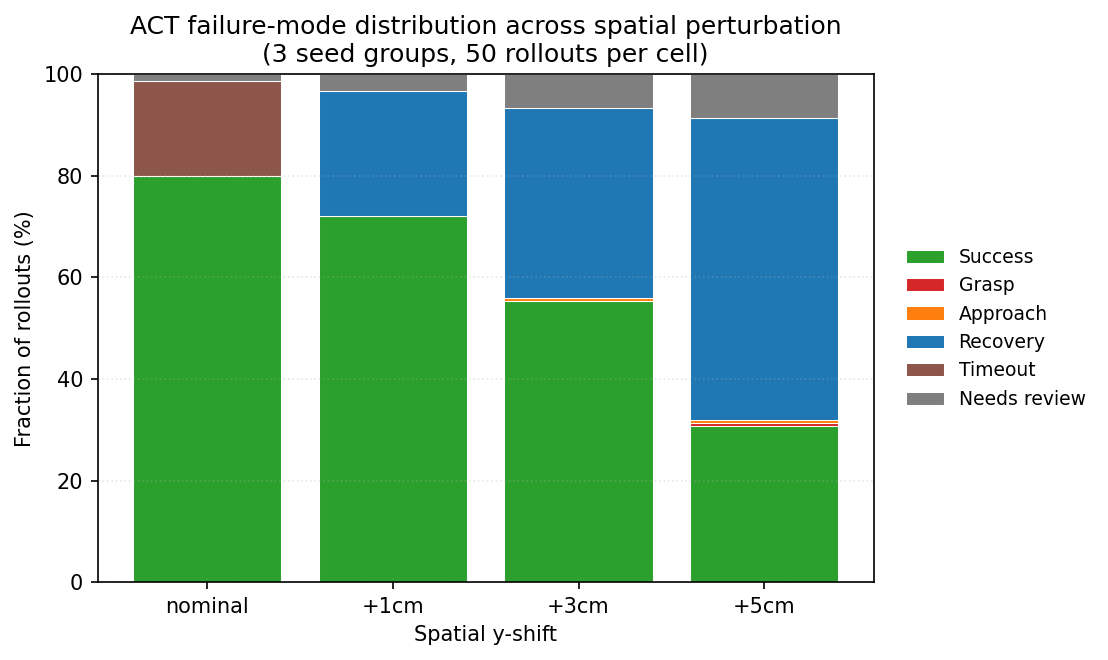
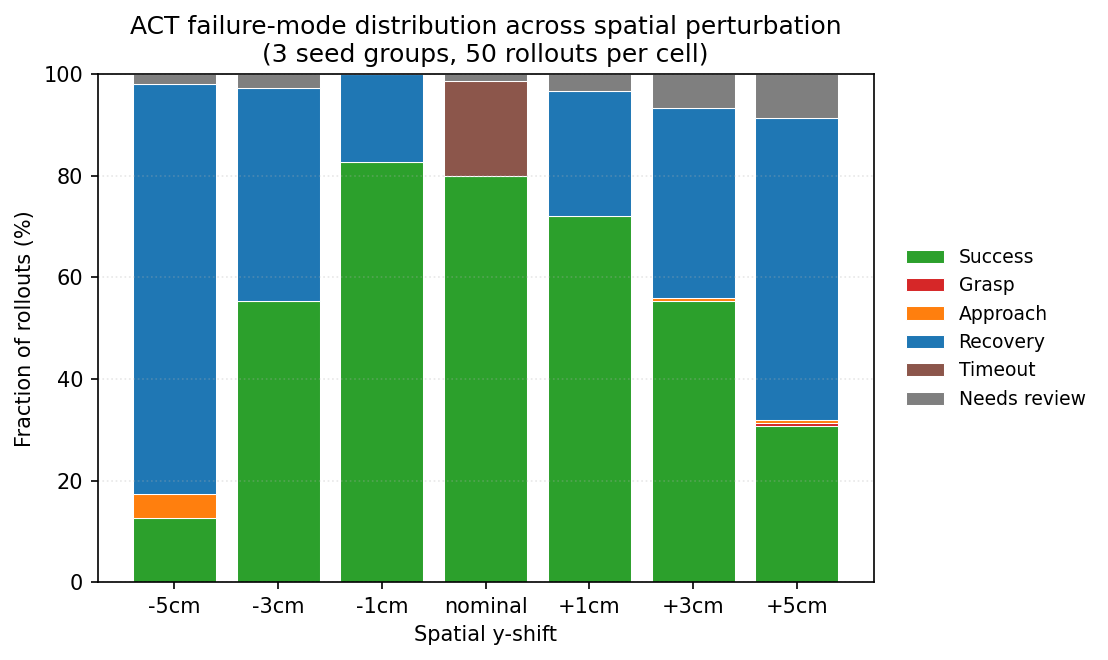
docs(log): Week 5 Day 2 negative spatial cells + axis asymmetry
Closes Week 5 Day 2 with the full 7-cell spatial axis (-5 -> +5 cm).
Figure regenerated; research-log entry adds the asymmetry findings and
re-evaluates the Phase 4 base-policy target.

Headline findings (full prose in research-log.md):

1. Asymmetric, non-monotonic curve at small magnitudes:
   - -1cm = 0.827 TSR (+2.7 pp vs nominal)
   - +1cm = 0.720 TSR (-8.0 pp vs nominal)
   At small magnitudes the policy tolerates negative shifts but not
   positive. At +-3cm both match (0.553). At +-5cm the asymmetry has
   FLIPPED: -5cm (0.127) is dramatically worse than +5cm (0.307).

2. Recovery dominates both directions; -5cm shows Approach failures
   (4.7% vs 0.7% at +5cm) -- the first per-cell QUALITATIVE shift.

3. Sigma collapse is more aggressive on the negative side. Positive
   side starts variable at +1cm (super-Bernoulli) then collapses;
   negative side is deterministic at every magnitude.

4. Phase 4 reassessment: +5cm still cleanest target (single failure
   mode, 59% Recovery). -5cm has more headroom but multi-modal failure
   (Recovery + Approach) -- harder residual-RL signal to learn.

Open question (deferred): mechanism behind the asymmetry direction-flip.
Likely about right-arm pickup competence near the (0, 0.5) nominal cube
position vs left-arm receive at the calibrated transfer-target (-0.018,
0.506) -- would need per-arm initial-state isolation to confirm.

STATE.md refreshed (Week 5 Day 2 header, 7-cell table inline,
[…]

Changed region(s): [[0.1227, 0.0909, 0.7058, 0.9394], [0.6137, 0.9091, 0.7671, 0.9394], [0.1227, 0.9091, 0.2762, 0.9394]]

diff --git a/docs/research-log.md b/docs/research-log.md
@@ -523,3 +523,110 @@ If the heatmap reader wants the "raw" Timeout count for perturbed cells, it's `R
 - **Visual / dynamic / temporal axes** — perturbation wrappers stubbed; STATE.md step 5+.
 - **Manual audit of needs_review rollouts** — ~5 from the +5 cm cell would tell us whether to tighten Recovery's sign-flip threshold (currently 0.05) or split off a new category for "motion without engagement".
 
+
+## Week 5 — 2026-05-17 (Day 2: negative spatial cells + axis asymmetry)
+
+Ran the 3 negative-y cells on M1 (-1, -3, -5 cm), regenerated the §6.4 figure spanning the full ±5 cm. Auto-classify in `_cmd_evaluate` produced `data/taxonomy/auto_labels_<run_id>.json` for each cell inline; no relabel needed.
+
+### 7-cell spatial axis
+
+| cell | n | mean_tsr | σ | Success | Recovery | Approach | Needs review |
+|---|---|---|---|---|---|---|---|
+| **−5cm** (18xb5ob0) | 150 | 0.127 | 0.009 | 19 (12.7%) | 121 (80.7%) | 7 (4.7%) | 3 (2.0%) |
+| −3cm (11ugk2a3) | 150 | 0.553 | 0.025 | 83 (55.3%) | 63 (42.0%) | 0 | 4 (2.7%) |
+| −1cm (1usoqyez) | 150 | 0.827 | 0.034 | 124 (82.7%) | 26 (17.3%) | 0 | 0 |
+| nominal (cm6uf89g) | 150 | 0.800 | 0.057 | 120 (80.0%) | 0 (28 Timeout) | 0 | 2 (1.3%) |
+| +1cm (p2pltgd8) | 150 | 0.720 | 0.102 | 108 (72.0%) | 37 (24.7%) | 0 | 5 (3.3%) |
+| +3cm (miuy4kux) | 150 | 0.553 | 0.041 | 83 (55.3%) | 56 (37.3%) | 1 (0.7%) | 10 (6.7%) |
+| **+5cm** (alr0r0p2) | 150 | 0.307 | 0.019 | 46 (30.7%) | 89 (59.3%) | 1 (0.7%) | 13 (8.7%) |
+
+Figure regenerated at `docs/figures/spatial_failure_distribution.png` (7 bars).
+
+### Asymmetric degradation, non-monotonic at small magnitudes
+
+Distance from nominal TSR:
+
+| Δy | TSR | ΔTSR vs nominal |
+|---|---|---|
+| −5 cm | 0.127 | −0.673 |
+| −3 cm | 0.553 | −0.247 |
+| −1 cm | 0.827 | **+0.027** |
+| 0     | 0.800 | 0 |
+| +1 cm | 0.720 | −0.080 |
+| +3 cm | 0.553 | −0.247 |
+| +5 cm | 0.307 | −0.493 |
+
+Three things stand out:
+
+1. **At ±1 cm the curve is asymmetric in *direction***: −1 cm is +2.7 pp better than nominal (within noise, σ ≈ 0.05), but +1 cm is −8.0 pp worse (≈ 1.4 σ — meaningful). At small magnitudes the policy tolerates negative shifts but not positive.
+2. **At ±3 cm the curve is matched** (both at 0.553, identical to two decimals). Negative direction "catches up" and they collide.
+3. **At ±5 cm the asymmetry has *reversed*** — −5 cm is now dramatically worse than +5 cm (0.127 vs 0.307, a 17.9 pp gap). The negative-direction degradation accelerates between −3 → −5 cm (drop of 0.426) far faster than positive between +3 → +5 cm (drop of 0.246).
+
+The story is the asymmetry flipping direction as magnitude grows: small +y is harder, large −y is much harder.
+
+### Mechanism hypothesis (open question)
+
+The cube starts at approximately (0, 0.5) and the calibrated transfer-target is (-0.018, 0.506) — i.e. the cube barely moves in y during a successful transfer. Demonstrations cluster narrowly around this nominal geometry. Speculative reading:
+
+- **Small +y (cube at y ≈ 0.51)** crosses into a region the right arm rarely picks up from in demos — first contact phase is the wedge that breaks.
+- **Small −y (cube at y ≈ 0.49)** stays within the right-arm's habituated reach pattern, so first-contact succeeds; the asymmetry-reversal at larger magnitude is then a second-stage failure (the *transfer* arm doesn't know how to receive at the shifted y).
+- **Large −y (cube at y ≈ 0.45)** simultaneously breaks right-arm pickup AND left-arm receive — both stages fail, hence the steeper drop.
+
+A controlled experiment to confirm would freeze the left arm at its nominal demo trajectory and only perturb right-arm initial state; or vice versa. Out of scope for Week 5 — flagged as a follow-up.
+
+### Approach-failure morphology at −5cm
+
+Of the 121 failed −5cm rollouts, 7 (4.7%) are Approach (EE > 5cm from cube terminal). At +5cm only 1 (0.7%) is Approach. This says that at large negative shifts the policy actually *reaches past* where it expects the cube to be — the gripper terminates further from the (shifted-away) cube than the 5 cm threshold. At +5cm the policy still reaches the nominal-vicinity position, which happens to be within 5 cm of the (shifted-toward-receptacle) cube.
+
+Mechanically this means residual RL on the −5cm cell would need to learn to **not over-reach**, which is a different correction signal than +5cm's "extend the reach a little further". Residual policies likely don't transfer between cells — Phase 4 may need per-cell fine-tunes, or a multi-cell joint training mix.
+
+### σ collapse is more aggressive on the negative side
+
+| Δy | σ | Bernoulli SE √(p(1−p)/N) |
+|---|---|---|
+| −5 cm | 0.009 | 0.027 (over-determined by 3×) |
+| −3 cm | 0.025 | 0.041 (sub-Bernoulli) |
+| −1 cm | 0.034 | 0.031 |
+| 0 cm  | 0.057 | 0.033 |
+| +1 cm | 0.102 | 0.037 (super-Bernoulli) |
+| +3 cm | 0.041 | 0.041 (Bernoulli) |
+| +5 cm | 0.019 | 0.038 (sub-Bernoulli) |
+
+Positive side starts variable (+1 cm σ ≈ 2.8× the Bernoulli floor — seed-to-seed *unpredictable* whether the policy adapts), collapses to deterministic by +5. Negative side is deterministic at every magnitude — same trajectory every seed. Doesn't suggest a different mechanism so much as: the +y "boundary regime" where demos and policy are stretched thin, vs the −y "out-of-distribution" regime where the policy reverts to a single canonical failure mode.
+
+### needs_review fraction
+
+| Δy | needs_review |
+|---|---|
+| −5, −3, −1 | 2.0%, 2.7%, 0% |
+| 0 | 1.3% |
+| +1, +3, +5 | 3.3%, 6.7%, 8.7% |
+
+The classifier rules fire cleanly on the negative side (lower fractions) and degrade with positive shift. Likely a manifestation of the same "+y is the unstable boundary" pattern — those rollouts have *some* motion, just not the right motion, so they fail the Recovery rule's "quiet policy" test and land in needs_review.
+
+### Phase 4 base-policy selection re-evaluated
+
+Updated takeaway from Week 5 Day 1 (when only +y cells existed): **the residual-RL target depends on which failure pattern is most tractable**, not just which cell has the largest TSR delta:
+
+- **+5cm (59% Recovery, 0% Approach)**: Stalled near target. Residual needs a small "continue forward" signal. Most tractable.
+- **−5cm (81% Recovery, 5% Approach)**: Stalled but ALSO over-reaching. Residual needs both "extend toward cube" AND "don't over-extend". Harder. Recovery is higher (more headroom) but the failure space is multi-modal.
+- **+3cm and −3cm (matched ~55% Success, ~40% Recovery)**: Same residual-RL signal as +5cm but with more TSR baseline already.
+
+If Phase 4 picks one cell, +5cm remains the cleanest target. If Phase 4 picks a mix, +3 / +5 / −3 makes a coherent set (single failure mode, growing magnitude). Adding −5 introduces a second failure pattern (Approach) that doubles the residual's policy-space-to-learn.
+
+### What's actually new in this entry
+
+- Negative-y degradation curve confirms the spatial axis is **not isotropic** — direction matters as much as magnitude.
+- The Day 1 conclusion ("Recovery is the dominant failure under perturbation") generalises across both directions but the second-order asymmetry is a Phase 4 design input.
+- Approach-failure emergence at −5cm is the first per-cell *qualitative* shift; everywhere else the failure is Recovery.
+
+### Open
+
+- **Mechanism behind the asymmetry direction-flip** (small +y harder, large −y much harder). Needs per-arm initial-state isolation — not before Phase 4.
+- **Asymmetric residual-RL targets**: do we train separate residuals per cell or one shared residual across all spatial cells? Empirical question — start with single-cell, add the joint mix if performance allows.
+- **Cross-session `mean_tsr_custom` drift** still unresolved (nominal: 0.680 → 0.727). Determinism regression passed on mock env; real-env reproducibility audit is still TBD.
+
+### Next session intent
+
+Same as STATE.md step 4 → temporal axis runs (3 cells, configs already in repo from earlier in the day). After temporal we have 2 axes × 3+ cells, enough material to draft the §6.4 multi-axis comparison.
+

diff --git a/docs/STATE.md b/docs/STATE.md
@@ -1,4 +1,4 @@
-# RoboEval — Current State (2026-05-17, Week 5 Day 1)
+# RoboEval — Current State (2026-05-17, Week 5 Day 2)
 
 A tight session-handoff anchor. `docs/PRD.md` is "what we're building",
 `docs/research-log.md` is "what happened week-by-week", this file is
@@ -9,8 +9,9 @@ welcome (it's a snapshot, not a journal).
 
 Phase 3 (robustness study) in progress. Gates G1 (foundation) and G2
 (baseline) closed. Week 5 trajectory-data extension + classifier wire-up
-complete; failure-mode distribution computed for the 3 spatial cells.
-Next: negative spatial shifts, then remaining perturbation axes.
+complete; **full spatial axis run (-5 → +5 cm, 7 cells)** with failure-
+mode distribution per cell. Temporal axis wrapper + 3 configs scaffolded
+but not yet run on M1.
 
 ## Headline numbers
 
@@ -25,21 +26,36 @@ Next: negative spatial shifts, then remaining perturbation axes.
   Frozen at `data/calibration/transfer_cube_target_xy.json`.
   `dwell_steps = 1` (gym-aloha terminates on `reward==4` same-step).
 
-## Spatial degradation curve + failure-mode distribution (Weeks 4-5)
+## Spatial degradation curve + failure-mode distribution (Weeks 4-5, 7 cells)
 
-| cell | mean_tsr | σ | Success | Recovery | Timeout | Needs review |
-|---|---|---|---|---|---|---|
-| nominal | 0.80 | 0.057 | 80.0% | 0%    | **18.7%** | 1.3% |
-| y+1cm   | 0.72 | 0.102 | 72.0% | **24.7%** | 0%    | 3.3% |
-| y+3cm   | 0.55 | 0.041 | 55.3% | **37.3%** | 0%    | 6.7% |
-| y+5cm   | 0.31 | 0.019 | 30.7% | **59.3%** | 0%    | 8.7% |
+| cell | mean_tsr | σ | Success | Recovery | Approach | Timeout | Needs review |
+|---|---|---|---|---|---|---|---|
+| **-5cm** | 0.127 | 0.009 | 12.7% | **80.7%** | 4.7% | 0 | 2.0% |
+| -3cm     | 0.553 | 0.025 | 55.3% | **42.0%** | 0    | 0 | 2.7% |
+| -1cm     | 0.827 | 0.034 | 82.7% | 17.3%     | 0    | 0 | 0    |
+| nominal  | 0.800 | 0.057 | 80.0% | 0%        | 0    | 18.7% | 1.3% |
+| +1cm     | 0.720 | 0.102 | 72.0% | 24.7%     | 0    | 0 | 3.3% |
+| +3cm     | 0.553 | 0.041 | 55.3% | 37.3%     | 0.7% | 0 | 6.7% |
+| **+5cm** | 0.307 | 0.019 | 30.7% | **59.3%** | 0.7% | 0 | 8.7% |
 
-Grasp/Approach/Oscillation are ≤ 1.3% across all cells. Figure at
-`docs/figures/spatial_failure_distribution.png`. Headline: **under any
-positive y-shift the failure mode flips from Timeout to Recovery**;
-policy ends within 5 cm of cube, never engages, stays quiet. ACT has no
-learned response to off-nominal cube placement. **+5cm is the strongest
-Phase 4 residual-RL target** (59% Recovery, deterministic, geometric).
+Figure at `docs/figures/spatial_failure_distribution.png` (7-cell stack).
+Headline findings (research-log Week 5 Day 2 for full analysis):
+
+1. **Asymmetric curve** — at ±1 cm, −1cm is +2.7 pp *better* than nominal
+   while +1cm is −8.0 pp *worse*. At ±3 cm both match. At ±5 cm the
+   asymmetry has flipped: −5cm (12.7%) is dramatically worse than +5cm
+   (30.7%).
+2. **Recovery dominates** failures across both directions.
+3. **Approach failures emerge at −5cm** (4.7% vs 0.7% at +5cm) — the
+   first per-cell qualitative shift in failure morphology.
+4. **σ collapse is more aggressive on the negative side** — sub-Bernoulli
+   from −1cm onward; positive side is super-Bernoulli at +1cm before
+   collapsing. Negative-y is deterministic; positive-y is variable at
+   small magnitude then collapses.
+
+Phase 4 base-policy target: **+5cm remains the cleanest** (single failure
+mode, 59% Recovery, deterministic). −5cm has more headroom but multi-modal
+failure (Recovery + Approach), harder residual-RL signal.
 
 ## Stack / repo state
 
@@ -92,8 +108,8 @@ docs/figures/spatial_failure_distribution.png   # §6.4 headline figure
 
 - **G1 Foundation** ✓ CI green, MPS verified, smoke runs
 - **G2 Baseline** ✓ 80% TSR within ±5 pp of model card 83%, σ=5.7% < 7%
-- **G3 Robustness & Taxonomy** ⏳ spatial 3/6 cells run; 3 negative cells
-  scaffolded; temporal wrapper + 3 cells scaffolded (not yet run);
+- **G3 Robustness & Taxonomy** ⏳ spatial 7/7 cells run (−5 → +5 cm
+  complete); temporal wrapper + 3 cells scaffolded (not yet run);
   visual/dynamic not started; all 6 classifier rules wired + auto-labels
   artifact produced per eval run
 - **G4 Residual RL** — not started (Weeks 6–7)
@@ -129,15 +145,21 @@ docs/figures/spatial_failure_distribution.png   # §6.4 headline figure
 
 ## Next session intent
 
-Week 5 Day 2 — close reproducibility + scale the perturbation suite:
+Week 5 Day 3 — temporal axis runs + multi-axis writeup prep:
 
-1. Write `tests/evaluation/test_rollout_aggregates_deterministic.py`:
-   assert bit-identical trajectory aggregates across two same-seed runs
-   on the mock env. Reproduces the cross-session drift in
-   `mean_tsr_custom` or rules out the new physics reads as cause.
-2. Add 3 negative spatial config cells (`act_spatial_y-{1,3,5}cm.yaml`)
-   + run them on M1 (~75 min). Same auto-classify path, no new code.
-3. Re-render `docs/figures/spatial_failure_distribution.png` to span
-   −5 → +5 cm. Updates §6.4 in research-log with directional findings.
-4. Pick the next perturbation axis: temporal (cheapest — action
-   downsampling/upsampling) or visual (needs render-pipeline hooks).
+1. Run the 3 temporal cells on M1 (~75 min):
+   `roboeval evaluate --config configs/perturbation/temporal/act_temporal_delay_{1,3,5}steps.yaml`.
+   Auto-classify writes labels per cell; no extra code needed.
+2. Render a temporal-axis figure (re-use `scripts/plot_failure_distribution.py`
+   with the 3 temporal cells + nominal). Likely a different stack
+   shape than spatial — action delay may produce more Oscillation /
+   Approach / mixed failures than Recovery, since the delayed-action
+   stream effectively asks the policy to operate on stale observations.
+3. Draft a 2-axis §6.4 paragraph comparing spatial (Recovery-dominant,
+   asymmetric) vs temporal (??). The contrast is the deliverable that
+   gives §6.4 a real cross-axis perspective rather than just
+   "spatial works".
+4. **Open question still**: cross-session `mean_tsr_custom` drift
+   (nominal: 0.680 → 0.727). Determinism regression on mock env passes;
+   real-env audit needs a same-session double-run on M1. Low priority
+   relative to the multi-axis writeup.